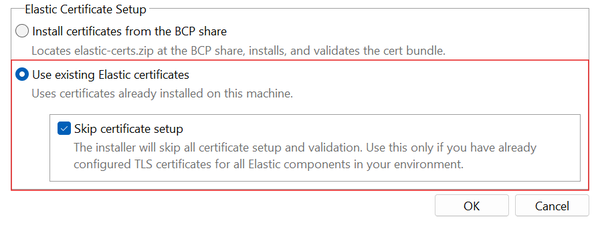
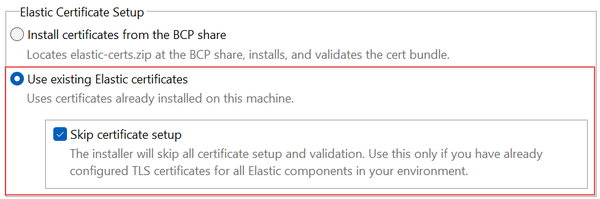
REL-1408889: Remove silent-mode and certificate reference sections, LDAP note; resize screenshots

Changed region(s): [[0.0, 0.0, 1.0, 0.995]]

diff --git a/elastic-stack-setup/elastic-stack-setup-02-environment-watch/ew-01-install-monitoring-agents.md b/elastic-stack-setup/elastic-stack-setup-02-environment-watch/ew-01-install-monitoring-agents.md
@@ -16,16 +16,13 @@ This document outlines the steps to install the Environment Watch monitoring age
 - LDAP port 389 (TCP) must be open from the target server to the domain controller(s), per the [Default Port Reference](../troubleshooting/pre-requisite-troubleshooting.md#default-port-reference) table. The **Environment Watch Installer** uses this port to validate the Relativity Service Account. If the installer fails on this check, see [Domain Controller Unreachable](../troubleshooting/monitoring-agent-and-otel-collector.md#domain-controller-unreachable).
 - The Relativity Service Account credentials, if Relativity is not installed on the server or if you want to use a different service account (see step 2 of [Install the Monitoring Agent](#install-the-monitoring-agent)).
 
-> [!NOTE]
-> The LDAP port requirement above applies only during install/upgrade of the monitoring agent, to validate the service account against the domain controller. It is not required during normal runtime of the Environment Watch service.
-
 ## Steps
 
 ### Install the Monitoring Agent
 
 1. From the extracted Server Bundle, run `Relativity.EnvironmentWatch.Installer.xx.x.xxxx.exe`. The license page opens.
 2. Click **Options** on the license page to open the options page. Click **OK** to save your selections and return to the license page, or **Cancel** to leave the installer. The options page has the following settings:
-   - **Installation Folder:** The folder where Environment Watch is installed. Use **Browse** to choose a different folder.
+   - **Installation Folder (optional):** The folder where Environment Watch is installed. Use **Browse** to choose a different folder.
    - **Service Account:** By default the installer uses the Relativity Service Account. To use other credentials, select **Use a custom service account**, then enter the **Username** (`domain\Username`) and **Password**. The fields are enabled only when the option is selected. The service account must be provided here when Relativity is not installed on the host.
    - **Elastic Certificate Setup:** Environment Watch communicates with Elasticsearch, APM Server, and Kibana over TLS, so the server must trust the Elastic CA certificate. This setting controls whether the installer installs the certificate or uses one that is already in place. Choose one of the options described in [Elastic certificate setup](#elastic-certificate-setup).
 3. Select **I accept the license terms and conditions**. The **Install** button is disabled until the license terms are accepted.
@@ -120,61 +117,6 @@ Select this option when the Elastic CA certificate is already installed on the s
 The **Skip certificate setup** check box appears only after you select **Use existing Elastic certificates**. Select it to skip all certificate setup and the Elastic Stack validation. Use it only if TLS is already configured for all Elastic components.
 
 ![Options page with Skip certificate setup selected](../../resources/ew-installer-07-cert-skip.png)
-
-## Install Environment Watch in silent mode
-
-Run the installer from an elevated command prompt or PowerShell window. In silent mode you select the certificate option with command-line properties instead of the options page.
-
-| Property | Value | Description |
-|---|---|---|
-| `ELASTICCERTMODE` | `1` (default) or `2` | `1` installs the certificates from the BCP share. `2` uses existing Elastic certificates. |
-| `SKIPCERTSETUP` | `1` | Skips certificate setup and validation. Applies only when `ELASTICCERTMODE=2`; it is ignored when `ELASTICCERTMODE=1`. |
-| `ELASTIC_CERTS_PREINSTALLED` | `1` | Same as `ELASTICCERTMODE=2`: use existing Elastic certificates. |
-| `ELASTIC_SKIP_CERT_SETUP` | `1` | Same as `ELASTICCERTMODE=2` with `SKIPCERTSETUP=1`: skip certificate setup and validation. Can be combined with any `ELASTICCERTMODE` value. |
-| `RELSERVICEACCOUNTUSERNAME`, `RELSERVICEACCOUNTPASSWORD` | Account credentials | Relativity Service Account credentials. Required when Relativity is not installed on the host. |
-
-Install certificates from the BCP share (default):
-
-```
-.\Relativity.EnvironmentWatch.Installer.xx.x.xxxx.exe /silent /log InstallLog.log
-```
-
-Use existing Elastic certificates:
-
-```
-.\Relativity.EnvironmentWatch.Installer.xx.x.xxxx.exe ELASTICCERTMODE=2 /silent /log InstallLog.log
-```
-
-Skip certificate setup:
-
-```
-.\Relativity.EnvironmentWatch.Installer.xx.x.xxxx.exe ELASTICCERTMODE=2 SKIPCERTSETUP=1 /silent /log InstallLog.log
-```
-
-> [!NOTE]
-> With the default `ELASTICCERTMODE=1`, a silent installation fails if `elastic-certs.zip` is not on the BCP share. Provide the service account properties in the same command when needed, for example `RELSERVICEACCOUNTUSERNAME="domain\Username" RELSERVICEACCOUNTPASSWORD="********"`.
-
-## Elastic certificate reference
-
-### Registry key
-
-After a successful installation (except when certificate setup is skipped), the installer writes the following values to `HKLM\SOFTWARE\Relativity\EnvironmentWatch\ElasticCerts`. Access to the key is restricted to Administrators and SYSTEM.
-
-| Value | Data |
-|---|---|
-| `CertificatesConfigured` | `1` |
-| `ConfiguredBy` | `ZipInstalled` or `External` |
-
-### Re-install and uninstall
-
-- **Re-install:** If `CertificatesConfigured=1` is already present when the installer starts, it skips the certificate installation and the registry update, whichever option is selected. It still validates the Elastic Stack connection over TLS unless certificate setup is skipped.
-- **Failed installation:** The registry key is written before the Elastic Stack validation, so it can remain after an installation that fails at the validation step. To select a different certificate option before running the installer again, delete the key:
-
-  ```
-  Remove-Item -Path "HKLM:\SOFTWARE\Relativity\EnvironmentWatch\ElasticCerts" -Recurse
-  ```
-
-- **Uninstall:** Uninstalling Environment Watch removes the `ElasticCerts` registry key. It does not remove the `ca.crt` files copied to the Elastic folders or the certificate imported into the Trusted Root store.
 
 ## Next Step
 [Click here for the next step](./ew-02-relativity-alerts.md)

diff --git a/elastic-stack-setup/elastic-stack-setup-02-environment-watch/environment_watch_upgrade.md b/elastic-stack-setup/elastic-stack-setup-02-environment-watch/environment_watch_upgrade.md
@@ -91,7 +91,7 @@ This document outlines the steps to upgrade the Environment Watch monitoring age
 >
 > - If `elastic-certs.zip` is on the BCP share, keep the default option, **Install certificates from the BCP share**.
 > - If the Elastic certificates were installed manually, or `elastic-certs.zip` is not on the BCP share, select **Use existing Elastic certificates**. With the default option the installer stops when it cannot find the archive.
-> - In silent mode, add `ELASTICCERTMODE=2` to the command line. See [Install Environment Watch in silent mode](./ew-01-install-monitoring-agents.md#install-environment-watch-in-silent-mode).
+> - In silent mode, add `ELASTICCERTMODE=2` to the command line.
 >
 > If the installer already registered the certificates (the `ElasticCerts` registry key exists), it skips the certificate installation. See [Elastic certificate setup](./ew-01-install-monitoring-agents.md#elastic-certificate-setup).
 
